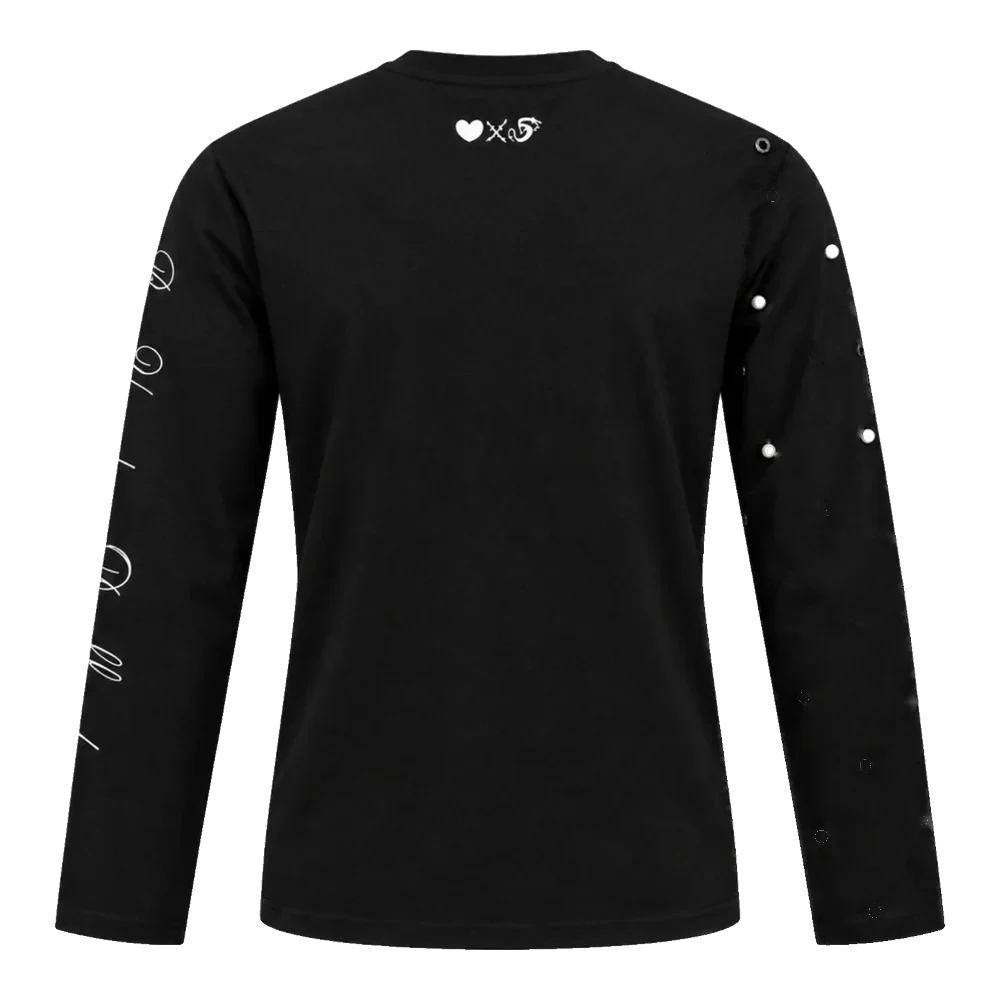
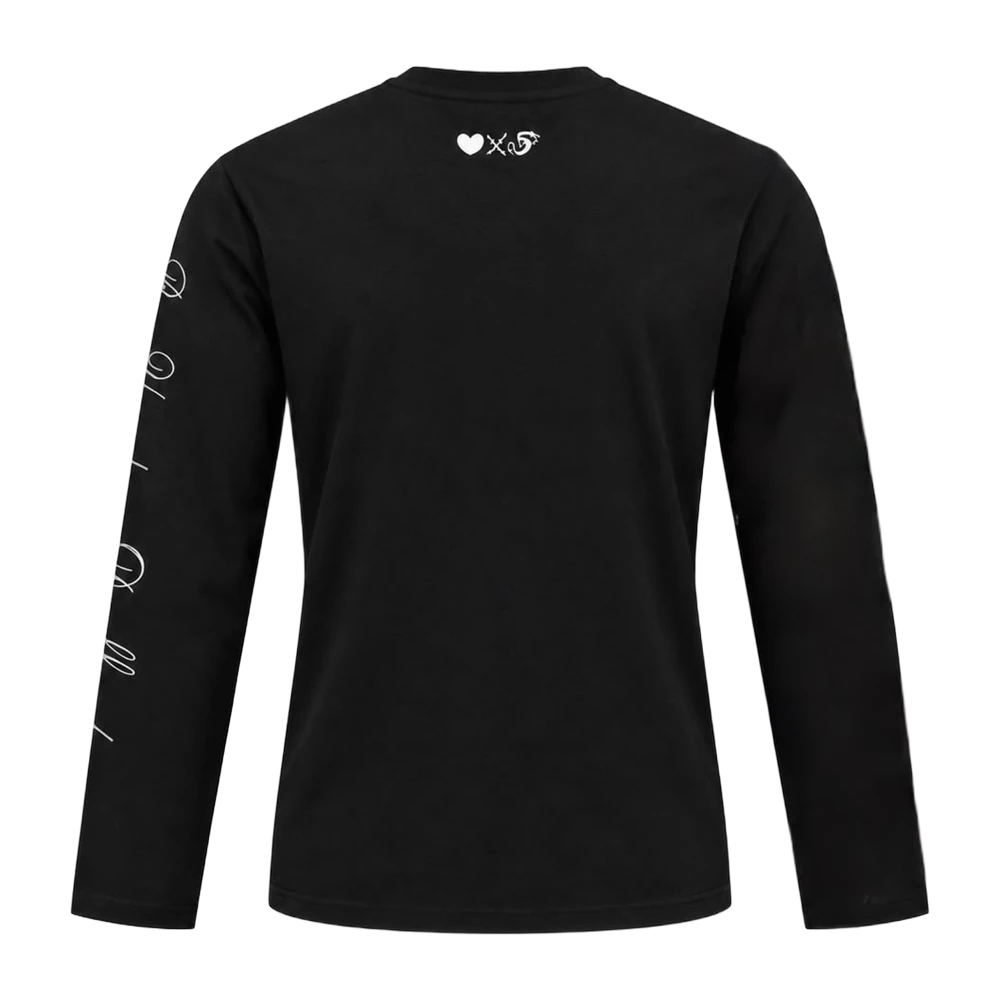
Corrections: clean no-bead raglans, jorts always beaded, camo-only skull cap, Library section removed (#25)
Claude-Session: https://claude.ai/code/session_01EVq2W64n9gGjShBVBAZEmT

diff --git a/yowa/site/index.html b/yowa/site/index.html
@@ -76,7 +76,7 @@
 [data-theme="light"] .pv-media.cut .pv-bars i{background:rgba(20,15,31,.16)}
 [data-theme="light"] .pv-media.cut .pv-bars b{background:var(--ink)}
 [data-theme="light"] .frame.cut img{filter:drop-shadow(0 16px 18px rgba(60,20,130,.22))}
-[data-theme="light"] .lib-tile,[data-theme="light"] .shot{box-shadow:0 10px 26px rgba(74,26,148,.16)}
+[data-theme="light"] .shot{box-shadow:0 10px 26px rgba(74,26,148,.16)}
 [data-theme="light"] .sec-head p,[data-theme="light"] .done p,[data-theme="light"] .join p{color:var(--ink)!important}
 [data-theme="light"] .form{background:rgba(255,255,255,.78)}
 [data-theme="light"] .hero-bybd{color:#1A0F33;text-shadow:0 0 22px rgba(243,238,255,.9),0 2px 10px rgba(243,238,255,.7)}
@@ -416,52 +416,16 @@ section{position:relative}
 .lb-nav{position:absolute;top:50%;transform:translateY(-50%)}
 .lb-prev{left:14px}.lb-next{right:14px}
 
-/* ── Library: every photo on file ── */
-.lib-bar{display:flex;flex-wrap:wrap;gap:12px 18px;align-items:center;justify-content:space-between;border-block:1px solid var(--line);padding:12px 0;margin-bottom:clamp(18px,2.6vw,28px)}
+/* ── In real life filters ── */
 .lib-shelves{display:flex;flex-wrap:wrap;gap:6px;flex:1 1 auto;min-width:0;padding:2px}
-.lib-side{display:flex;align-items:center;gap:14px;margin-left:auto}
 .pill{flex:none;display:inline-flex;align-items:center;gap:8px;font:700 8.5px/1 var(--f-label);letter-spacing:.16em;text-transform:uppercase;padding:11px 13px;border-radius:999px;border:1px solid var(--line);background:rgba(8,6,14,.55);cursor:pointer;white-space:nowrap;transition:background .25s,color .25s,border-color .25s}
 @media (hover:hover){.pill:hover{border-color:var(--purple-l)}}
 .pill i{font-style:normal;color:var(--purple-l)}
 .pill[aria-pressed="true"]{background:#fff;color:var(--void);border-color:#fff}
 .pill[aria-pressed="true"] i{color:var(--purple)}
-.lib-views{display:flex;gap:2px;padding:3px;border:1px solid var(--line);border-radius:999px;background:rgba(8,6,14,.55)}
-.lib-views .pill{border:0;background:none;padding:9px 12px}
-.lib-views .pill[aria-pressed="true"]{background:var(--purple);color:#fff}
-.lib-cols{display:flex;gap:clamp(8px,1.2vw,14px);align-items:flex-start}
-.lib-col{flex:1;min-width:0;display:grid;gap:clamp(8px,1.2vw,14px)}
-.lib-tile{position:relative;display:block;width:100%;aspect-ratio:1;padding:0;border:0;border-radius:8px;overflow:hidden;cursor:zoom-in;color:#fff;text-align:left;background:#140E26 url(img/brand/bg-swirl.jpg) center/cover;isolation:isolate}
-.lib-tile::before{content:"";position:absolute;inset:0;z-index:-1;background:linear-gradient(110deg,rgba(8,6,14,.6) 30%,rgba(122,47,224,.35) 50%,rgba(8,6,14,.6) 70%) 0 0/300% 100%;animation:shimmer 1.6s linear infinite}
-.lib-tile.ok::before{animation:none;background:none}
 @keyframes shimmer{to{background-position:-150% 0}}
-.lib-tile img{display:block;width:100%;height:100%;object-fit:cover;opacity:0;transform:scale(1.06);transition:opacity .7s ease,transform 1.1s var(--e-settle)}
-.lib-tile.ok img{opacity:1;transform:none}
-@media (hover:hover){.lib-tile.ok:hover img{transform:scale(1.05)}.lib-tile:hover .cap{transform:none}.lib-tile:hover{box-shadow:0 0 0 1px var(--purple-l),0 18px 50px rgba(122,47,224,.3)}}
-.lib-tile .no{position:absolute;left:8px;top:8px;font:700 7.5px/1 var(--f-label);letter-spacing:.16em;padding:7px 8px;border-radius:999px;background:rgba(8,6,14,.7);border:1px solid var(--line)}
-.lib-tile .cap{position:absolute;left:0;right:0;bottom:0;padding:34px 12px 12px;background:linear-gradient(180deg,transparent,rgba(8,6,14,.88));font:700 8px/1.5 var(--f-label);letter-spacing:.14em;text-transform:uppercase;transform:translateY(101%);transition:transform .45s var(--e-settle)}
-.lib-tile:focus-visible .cap{transform:none}
-@media (hover:none){.lib-tile .cap{display:none}}
-.js .lib-tile{opacity:0;transform:translateY(28px);transition:opacity .8s var(--e-settle) var(--d,0ms),transform .8s var(--e-settle) var(--d,0ms),box-shadow .3s}
-.js .lib-tile.in{opacity:1;transform:none}
-.lib-index{list-style:none;margin:0;padding:0;border-top:1px solid var(--line)}
-.lib-index li{animation:rowin .6s var(--e-settle) both;animation-delay:var(--d,0ms)}
 @keyframes rowin{from{opacity:0;transform:translateY(12px)}}
-.lib-row{width:100%;display:grid;grid-template-areas:"no nm sh go";grid-template-columns:86px minmax(0,1fr) auto 24px;gap:6px 18px;align-items:center;padding:16px 6px;border:0;border-bottom:1px solid var(--line);background:none;color:inherit;cursor:pointer;text-align:left;transition:background .3s,padding .45s var(--e-settle)}
-.lib-row:focus-visible{background:rgba(122,47,224,.14);padding-left:16px}
-@media (hover:hover){.lib-row:hover{background:rgba(122,47,224,.14);padding-left:16px}.lib-row:hover .go{transform:translateX(4px)}}
-.lib-row .no{grid-area:no;font:700 8.5px/1 var(--f-label);letter-spacing:.16em;color:var(--mut)}
-.lib-row .nm{grid-area:nm;font:400 clamp(20px,2.8vw,36px)/1 var(--f-display);text-transform:uppercase;letter-spacing:.01em}
-.lib-row .sh{grid-area:sh;font:700 8px/1 var(--f-label);letter-spacing:.16em;text-transform:uppercase;color:var(--mut)}
-.lib-row .go{grid-area:go;color:var(--purple-l);transition:transform .45s var(--e-settle)}
-.lib-row .th{grid-area:th;display:none;width:52px;height:66px;border-radius:6px;object-fit:cover;background:#140E26}
-@media (max-width:700px){.lib-row{grid-template-areas:"th no go" "th nm go";grid-template-columns:52px minmax(0,1fr) 18px;padding:12px 2px}.lib-row .th{display:block}.lib-row .sh{display:none}.lib-row .nm{font-size:20px}}
-.lib-peek{position:fixed;left:0;top:0;z-index:45;width:250px;border-radius:10px;overflow:hidden;pointer-events:none;opacity:0;background:#140E26;box-shadow:0 24px 70px rgba(0,0,0,.6),0 0 0 1px var(--line),0 0 40px rgba(122,47,224,.35);transition:opacity .25s ease;will-change:transform}
-.lib-peek.on{opacity:1}
-.lib-peek img{display:block;width:100%;height:auto}
-@media (hover:none),(pointer:coarse){.lib-peek{display:none}}
-.lib-more{display:flex;justify-content:center;margin-top:clamp(24px,3vw,36px)}
-@media (max-width:640px){.lib-shelves{flex-basis:100%}.lib-side{margin-left:0;width:100%;justify-content:space-between}}
-@media (prefers-reduced-motion:reduce){.js .lib-tile{opacity:1;transform:none}.lib-index li{animation:none}.lib-tile::before{animation:none}}
+@media (max-width:640px){.lib-shelves{flex-basis:100%}}
 
 .worn{display:grid;grid-template-columns:repeat(4,minmax(0,1fr));gap:14px}
 @media (max-width:900px){.worn{grid-template-columns:repeat(2,minmax(0,1fr))}}
@@ -642,10 +606,6 @@ section{position:relative}
   .rail-track{grid-template-columns:repeat(3,minmax(0,1fr));gap:6px}
   .shot,.shot:first-child,.shot:last-child:nth-child(even){grid-column:auto;aspect-ratio:1;border-radius:6px}
   .shot:nth-child(n+7),.shot .cap{display:none}
-  .lib-cols,.lib-col{gap:6px}
-  .lib-tile{border-radius:6px}
-  .lib-tile .no{left:5px;top:5px;font-size:6.5px;padding:5px 6px}
-  .lib-bar{padding:8px 0;margin-bottom:12px}
   .celeb{aspect-ratio:1;padding:10px}
   .celeb .eye{width:44px;height:44px;box-shadow:inset 0 0 0 7px rgba(239,234,247,.8)}
   .celeb .eye::after{width:14px;height:14px}
@@ -671,8 +631,6 @@ section{position:relative}
 @media (hover:none){
   .btn:active,.pill:active,.x:active,.bag-btn:active,.menu-btn:active,.size:active,.chips button:active,.chat-fab:active{transform:scale(.95)}
   .card:active .frame,.shot:active{transform:scale(.97)}
-  .lib-tile:active{box-shadow:0 0 0 2px var(--purple-l)}
-  .lib-row:active{background:rgba(122,47,224,.18)}
 }
 
 /* ── Reveal on scroll (content stays visible without JS) ── */
@@ -760,31 +718,10 @@ section{position:relative}
     <div class="rail" id="rail" tabindex="0" aria-label="Gallery. Drag or use the arrow keys; press Enter on a photo to open it.">
       <div class="rail-track" id="rail-track"></div>
     </div>
-    <div class="wrap rail-hint"><span class="label"><span class="drag">Drag · </span>Tap to zoom</span><a class="label" href="#library">All <b id="lib-total">0</b> photos in the Library →</a></div>
+    <div class="wrap rail-hint"><span class="label"><span class="drag">Drag · </span>Tap to zoom</span></div>
   </section>
 
 
-  <section class="sec" id="library" aria-labelledby="lib-t">
-    <div class="wrap">
-      <div class="sec-head rv">
-        <h2 id="lib-t">Library</h2>
-        <p>Every photo on file, numbered. Tap one to see it full size.</p>
-      </div>
-      <div class="lib-bar rv">
-        <div class="lib-side">
-          <span class="label" id="lib-count" role="status"></span>
-          <div class="lib-views" role="group" aria-label="View">
-            <button class="pill" type="button" data-view="grid" aria-pressed="true">Grid</button>
-            <button class="pill" type="button" data-view="index" aria-pressed="false">Index</button>
-          </div>
-        </div>
-      </div>
-      <p class="empty-note" id="lib-empty" hidden>New photos dropping soon.</p>
-      <div id="lib-body"></div>
-      <div class="lib-more"><button class="btn" type="button" id="lib-more" hidden>Show more</button></div>
-    </div>
-    <div class="lib-peek" id="lib-peek" aria-hidden="true"><img alt=""></div>
-  </section>
 
 
   <section class="sec" id="message" aria-labelledby="msg-t">
@@ -915,13 +852,11 @@ const CONFIG = {
 // looks: the photos for each pick; the first look whose `when` matches what's picked is shown (no `when` keys = always).
 const SIZES = ['M', 'L', 'XL', 'XXL'];
 const BEADS = { name: 'Beads', values: [{ v: 'With beads' }, { v: 'Without beads' }] };
-const SKULL_BEADS = { name: 'Beads', values: [{ v: 'No beads' }, { v: 'Black beads', sw: '#121212' }, { v: 'White beads', sw: '#F4F1EA' }] };
 const CAMO = 'conic-gradient(from 40deg,#2a2a2c 0 22%,#8b8b8f 0 41%,#4b4b4f 0 63%,#b3b3b6 0 78%,#2a2a2c 0)';
 const IMG = 'img/products/';
 // a colour with its beaded photos and its plain ones (the beads taken off), front first and back second
 const beadLooks = (C, withBeads, plain) => [{ when: { Colour: C, Beads: 'With beads' }, images: withBeads }, { when: { Colour: C, Beads: 'Without beads' }, images: plain }];
 const ragLooks = C => { const c = C.toLowerCase(); return beadLooks(C, [IMG + 'raglan-' + c + '-front.webp', IMG + 'raglan-' + c + '-back.webp'], [IMG + 'raglan-' + c + '-front-plain.webp', IMG + 'raglan-' + c + '-back-plain.webp']); };
-const jortLooks = C => { const c = C.toLowerCase(); return beadLooks(C, [IMG + 'jorts-' + c + '.webp'], [IMG + 'jorts-' + c + '-plain.webp']); };
 const BEAD_COLOURS = { name: 'Bead colour', show: c => c.Colour === 'Black' && c.Beads === 'With beads', values: [{ v: 'White', sw: '#F4F1EA' }, { v: 'Red', sw: '#D3202B' }, { v: 'Purple', sw: '#8A3FE0' }, { v: 'Black', sw: '#121212' }] };
 const capBlack = col => ({ when: { Colour: 'Black', Beads: 'With beads', 'Bead colour': col }, images: [IMG + 'cap-black-front-' + col.toLowerCase() + '.webp', IMG + 'cap-black-side-' + col.toLowerCase() + '.webp'] });
 const PRODUCTS = [
@@ -947,15 +882,12 @@ const PRODUCTS = [
       { when: { Colour: 'Grey', Beads: 'With beads' }, images: [IMG + 'joggers-grey-beads.webp'] }, { when: { Colour: 'Grey' }, images: [IMG + 'joggers-grey.webp'] }],
     desc: 'Wide-leg joggers with the signature on the hip. Beads down the side or keep them plain. Handmade, limited run.' },
   { id: 'jorts', name: 'Jorts', cat: 'bottoms', isNew: true, cut: true, price: null, art: 'raglan', sizes: SIZES,
-    opts: [{ name: 'Colour', values: [{ v: 'Black', sw: '#121212' }, { v: 'Purple', sw: '#5A3FC6' }, { v: 'Grey', sw: '#A3A3A7' }] }, BEADS],
-    looks: [].concat(jortLooks('Black'), jortLooks('Purple'), jortLooks('Grey')),
-    desc: 'Long jorts with the signature on the front and beads down both sides, or without. Handmade, limited run.' },
+    opts: [{ name: 'Colour', values: [{ v: 'Black', sw: '#121212' }, { v: 'Purple', sw: '#5A3FC6' }, { v: 'Grey', sw: '#A3A3A7' }] }],
+    looks: ['Black', 'Purple', 'Grey'].map(C => ({ when: { Colour: C }, images: [IMG + 'jorts-' + C.toLowerCase() + '.webp'] })),
+    desc: 'Long jorts with the signature on the front and beads down both sides. Handmade, limited run.' },
   { id: 'skull-cap', name: 'Skull Cap', cat: 'caps', cut: true, price: null, art: 'beanie', sizes: ['One size'],
-    opts: [{ name: 'Colour', values: [{ v: 'Camo', sw: CAMO }, { v: 'Black', sw: '#121212' }] }, SKULL_BEADS],
-    looks: [{ when: { Colour: 'Black', Beads: 'No beads' }, images: [IMG + 'skull-black-plain-front.webp', IMG + 'skull-black-plain-back.webp'] },   // front view first, back view second
-      { when: { Colour: 'Black', Beads: 'White beads' }, images: [IMG + 'skull-black-white-beads.webp'] }, { when: { Colour: 'Black', Beads: 'Black beads' }, images: [IMG + 'skull-black-black-beads.webp'] },
-      { when: { Colour: 'Camo' }, images: [IMG + 'skull-camo.webp', IMG + 'skull-camo-sig.webp'] }],
-    desc: 'Skull cap with stitched seams, in camo or black. Add beads in black or white, or keep it clean. One size.' },
+    images: [IMG + 'skull-camo.webp', IMG + 'skull-camo-sig.webp'],
+    desc: 'Camo skull cap with stitched seams. One size.' },
   { id: 'cap-042', name: '042 Cap', cat: 'caps', cut: true, price: null, art: 'cap', sizes: ['One size'],
     opts: [{ name: 'Colour', values: [{ v: 'Black', sw: '#121212' }, { v: 'Green', sw: '#2F5A38' }, { v: 'Navy', sw: '#1B2A5E' }, { v: 'Green & Yellow', sw: 'linear-gradient(135deg,#2F5A38 50%,#F2A60C 50%)' }],
         }, Object.assign({ show: c => c.Colour !== 'Green & Yellow' }, BEADS), BEAD_COLOURS],
@@ -1626,16 +1558,10 @@ const LIBRARY = [
     backstack.open(close); show(i); lb.querySelector('.lb-close').focus({ preventScroll: true });
   }
 
-  /* ── Library: every photo on file, numbered. Masonry grid or an index, filtered by shelf, all opening in the viewer ── */
+  /* ── Photos: the numbered set behind In real life, filtered by shelf, opening in the viewer ── */
   const LIB = LIBRARY.map(p => ({ ...p, thumb: small(p.src) }));
   const SHELF_ORDER = ['Tops', 'Bottoms', 'Caps'];
-  const libBody = $('#lib-body'), libMore = $('#lib-more'), libCount = $('#lib-count'), peek = $('#lib-peek'), peekImg = $('#lib-peek img');
-  let shelf = 'All', libView = store.get('yowa-lib-view', 'grid') === 'index' ? 'index' : 'grid', cols = 0, colH = [], colEls = [], list = [], rowsEl = null;
-  const pk = { x: 0, y: 0, tx: 0, ty: 0, on: false, raf: 0 };
-  const colsFor = () => innerWidth >= 1100 ? 6 : innerWidth >= 700 ? 4 : 3;
-  const pageSize = () => colsFor() * (innerWidth >= 700 ? 2 : 3);   // square tiles: two rows at a time on a computer, three on a phone
-  let shown = pageSize();
-  const libItems = () => LIB.slice();   // the Library is every photo, numbered
+  let shelf = 'All';
   const irlItems = () => shelf === 'All' ? LIB.slice() : LIB.filter(p => (p.shelves || []).indexOf(shelf) >= 0);
   function paintShelves() {
     const n = {}; LIB.forEach(p => (p.shelves || []).forEach(x => { n[x] = (n[x] || 0) + 1; }));
@@ -1647,82 +1573,9 @@ const LIBRARY = [
       b.addEventListener('click', () => { if (shelf === name) return; shelf = name; $$('.pill', box).forEach(x => x.setAttribute('aria-pressed', String(x === b))); paintRail(irlItems()); });
       box.appendChild(b);
     });
-    $('#lib-total').textContent = LIB.length; box.hidden = !LIB.length;
+    box.hidden = !LIB.length;
   }
-  function tile(p, idx, c) {
-    const b = document.createElement('button'); b.type = 'button'; b.className = 'lib-tile'; b.style.setProperty('--d', c * 70 + 'ms');
-    b.setAttribute('aria-label', 'Open ' + p.no + ', ' + p.cap);
-    const im = document.createElement('img'); im.alt = ''; im.loading = 'lazy'; im.decoding = 'async';
-    im.onload = () => { if (p.live && im.naturalWidth) { p.w = im.naturalWidth; p.h = im.naturalHeight; p.live = false; } b.classList.add('ok'); };
-    im.onerror = () => { if (p.thumb !== p.src && im.getAttribute('src') !== p.src) im.src = p.src; else b.classList.add('ok'); };
-    im.src = p.thumb;
-    const no = document.createElement('span'); no.className = 'no'; no.textContent = p.no;
-    const cp = document.createElement('span'); cp.className = 'cap'; cp.textContent = p.cap;
-    b.append(im, no, cp); b.addEventListener('click', () => openLightbox(list, idx, b));
-    return b;
-  }
-  const libIO = new IntersectionObserver(es => es.forEach(e => { if (e.isIntersecting) { e.target.classList.add('in'); libIO.unobserve(e.target); } }), { rootMargin: '0px 0px -6% 0px' });
-  function addTiles(from, to, reveal) {
-    let first = null;
-    for (let i = from; i < to; i++) {
-      const p = list[i]; let c = 0; for (let k = 1; k < cols; k++) if (colH[k] < colH[c] - .01) c = k;   // shortest column, ties go left
-      const t = tile(p, i, c); colEls[c].appendChild(t); colH[c] += 1; first = first || t;
-      if (reveal && !reduced()) libIO.observe(t); else t.classList.add('in');
-    }
-    return first;
-  }
-  function renderLib(reveal) {
-    list = libItems(); hidePeek(); libBody.textContent = '';
-    if (libView === 'grid') {
-      cols = colsFor(); colH = new Array(cols).fill(0);
-      const wrap = document.createElement('div'); wrap.className = 'lib-cols';
-      colEls = Array.from({ length: cols }, () => { const c = document.createElement('div'); c.className = 'lib-col'; return wrap.appendChild(c); });
-      libBody.appendChild(wrap); addTiles(0, Math.min(shown, list.length), reveal);
-    } else {
-      rowsEl = document.createElement('ol'); rowsEl.className = 'lib-index'; libBody.appendChild(rowsEl); addRows(0, Math.min(shown, list.length), reveal);
-    }
-    paintMore();
-  }
-  function addRows(from, to, reveal) {
-    let first = null;
-    for (let i = from; i < to; i++) {
-      const p = list[i], li = document.createElement('li'); if (reveal && !reduced()) li.style.setProperty('--d', Math.min(i - from, 14) * 30 + 'ms'); else li.style.animation = 'none';
-      const b = document.createElement('button'); b.type = 'button'; b.className = 'lib-row'; b.dataset.i = i;
-      b.innerHTML = '<img class="th" alt="" loading="lazy" decoding="async"><span class="no"></span><span class="nm"></span><span class="sh"></span><span class="go" aria-hidden="true">→</span>';
-      b.querySelector('.th').src = p.thumb; b.querySelector('.no').textContent = p.no; b.querySelector('.nm').textContent = p.cap; b.querySelector('.sh').textContent = (p.shelves || []).join(' · ');
-      b.addEventListener('click', () => openLightbox(list, i, b)); li.appendChild(b); rowsEl.appendChild(li); first = first || b;
-    }
-    return first;
-  }
-  function paintMore() {
-    const n = Math.min(shown, list.length), left = list.length - n;
-    libCount.textContent = list.length ? n + ' of ' + list.length + ' photos' : ''; $('#lib-empty').hidden = list.length > 0; $('.lib-bar').hidden = !list.length;
-    libMore.hidden = left <= 0; libMore.textContent = 'Show more · ' + left + ' to go';
-  }
-  libMore.addEventListener('click', () => { const from = Math.min(shown, list.length); shown += pageSize(); const to = Math.min(shown, list.length), first = libView === 'grid' ? addTiles(from, to, true) : addRows(from, to, true); paintMore(); if (libMore.hidden && first) first.focus({ preventScroll: true }); });
-  $$('.lib-views .pill').forEach(b => {
-    b.setAttribute('aria-pressed', String(b.dataset.view === libView));
-    b.addEventListener('click', () => { if (libView === b.dataset.view) return; libView = b.dataset.view; store.set('yowa-lib-view', libView); $$('.lib-views .pill').forEach(x => x.setAttribute('aria-pressed', String(x === b))); renderLib(true); });
-  });
-  let libRs = 0; addEventListener('resize', () => { clearTimeout(libRs); libRs = setTimeout(() => { if (libView === 'grid' && colsFor() !== cols) renderLib(false); }, 160); });
-  // Index view on a desktop: the photo follows the cursor down the list.
-  function peekLoop() {
-    const k = reduced() ? 1 : .2; pk.x += (pk.tx - pk.x) * k; pk.y += (pk.ty - pk.y) * k;
-    const tilt = Math.max(-6, Math.min(6, (pk.tx - pk.x) * .06));
-    peek.style.transform = 'translate3d(' + pk.x.toFixed(1) + 'px,' + pk.y.toFixed(1) + 'px,0) rotate(' + tilt.toFixed(2) + 'deg)';
-    pk.raf = pk.on && (Math.abs(pk.tx - pk.x) > .3 || Math.abs(pk.ty - pk.y) > .3) ? requestAnimationFrame(peekLoop) : 0;
-  }
-  function hidePeek() { pk.on = false; peek.classList.remove('on'); }
-  libBody.addEventListener('pointermove', e => {
-    if (e.pointerType !== 'mouse' || libView !== 'index') return;
-    const row = e.target.closest && e.target.closest('.lib-row'), p = row && list[+row.dataset.i]; if (!p) { hidePeek(); return; }
-    if (peekImg.getAttribute('src') !== p.thumb) peekImg.src = p.thumb;
-    const w = peek.offsetWidth || 250, h = w * p.h / p.w; let x = e.clientX + 32; if (x + w > innerWidth - 16) x = e.clientX - w - 32;
-    const y = Math.max(16, Math.min(innerHeight - h - 16, e.clientY - h / 2));
-    if (!pk.on) { pk.x = x; pk.y = y; } pk.tx = x; pk.ty = y; pk.on = true; peek.classList.add('on'); if (!pk.raf) pk.raf = requestAnimationFrame(peekLoop);
-  });
-  libBody.addEventListener('pointerleave', hidePeek); addEventListener('scroll', hidePeek, { passive: true });
-  paintShelves(); renderLib(true); paintRail(irlItems());
+  paintShelves(); paintRail(irlItems());
   // Codes open straight in the viewer: from the hero caption, and from links like yowabybd.com/#yw-010.
   function openCode(no, from) { const k = LIB.findIndex(p => p.no === no); if (k < 0) return false; openLightbox(LIB, k, from || null); return true; }
   let pendingCode = '';
@@ -1737,15 +1590,15 @@ const LIBRARY = [
   if (CONFIG.LIBRARY_FEED && !CONFIG.PREVIEW) fetch(CONFIG.LIBRARY_FEED).then(r => r.ok ? r.json() : null).then(d => {
     const https = u => typeof u === 'string' && u.indexOf('https://') === 0, key = u => String(u).split('/').pop().replace(/^[a-z0-9]{6,9}-/i, '').replace(/\.[a-z0-9]+$/, '').toLowerCase(), have = new Set(LIB.map(p => String(p.file || key(p.src)).toLowerCase()));
     const fresh = (d && Array.isArray(d.photos) ? d.photos : []).filter(p => p && https(p.url) && !/^(brand|inbox|real-?life)$/i.test(p.folder) && /\.(jpe?g|png|webp|avif)$/i.test(p.path || '') && !have.has(key(p.path)));
-    if (!fresh.length) return;   // nothing on the Library site yet: both sections show 'New photos dropping soon'
+    if (!fresh.length) return;   // nothing on the Library site yet: In real life shows what is bundled
     fresh.sort((a, b) => String(a.created_at).localeCompare(String(b.created_at))).forEach(p => {
       const t = ((Array.isArray(p.tags) ? p.tags : []).join(' ') + ' ' + (p.folder || '')).toLowerCase();
       LIB.push({ src: p.url, thumb: https(p.thumb) ? p.thumb : p.url, w: 2, h: 3, live: true, no: 'YW·' + String(++lastNo).padStart(3, '0'),
         cap: typeof p.caption === 'string' && p.caption.trim() ? p.caption.trim().slice(0, 80) : 'Shoot · ' + String(p.folder || 'new'),
         shelves: [{ raw: 'Tops', 'behind-the-scenes': 'Bottoms', products: 'Caps', campaign: 'Caps' }[String(p.folder).toLowerCase()] || (/\b(tees?|t-?shirt|raglan|long[\s-]*sleeve|top)s?\b/.test(t) ? 'Tops' : /jogger|jort|short|pant/.test(t) ? 'Bottoms' : /\bcaps?\b/.test(t) ? 'Caps' : '')].filter(Boolean) });
     });
-    paintShelves(); renderLib(true); paintRail(irlItems());
-    paintMore(); if (pendingCode && openCode(pendingCode)) pendingCode = '';
+    paintShelves(); paintRail(irlItems());
+    if (pendingCode && openCode(pendingCode)) pendingCode = '';
   }).catch(() => { });
 
   /* ── The list: same Supabase waitlist table (via /api/join) + Formspree backup ── */

diff --git a/yowa/site/api/chat.js b/yowa/site/api/chat.js
@@ -22,7 +22,7 @@ ABOUT YOWA
 - Instagram: @yowa_bybd. Everything is handmade in small limited runs. When a run is gone, it is gone.
 
 THE SITE AND THE SHOP
-- Pieces: Liberty Raglan (black body; sleeves in black, red, blue or grey; with beads or without); Ringer Tee and YOWA Long Sleeve (white); Be Different Tee (black, YOWA on the chest, Be You Be Different on the back); YOWA Logo Tee (black, big YOWA wordmark); Joggers (black or grey, with or without beads); Jorts (black, purple or grey, with or without beads); Skull Cap (camo or black; no beads, black beads or white beads; one size); 042 Cap, the patch cap (black, green, navy, or green with a yellow peak; with or without beads; the black one can have black, red, white or purple beads; one size).
+- Pieces: Liberty Raglan (black body; sleeves in black, red, blue or grey; with beads or without); Ringer Tee and YOWA Long Sleeve (white); Be Different Tee (black, YOWA on the chest, Be You Be Different on the back); YOWA Logo Tee (black, big YOWA wordmark); Joggers (black or grey, with or without beads); Jorts (black, purple or grey, always with beads); Skull Cap (camo; one size); 042 Cap, the patch cap (black, green, navy, or green with a yellow peak; with or without beads; the black one can have black, red, white or purple beads; one size).
 - Clothes come in M, L, XL and XXL with a relaxed fit.
 - Shop sections: New, All, Tops, Caps, Bottoms. Tap the eye on a piece to see it, the bag to add it. Pick colour, beads, size and quantity, then add to cart.
 - Anyone can fill a cart. Checking out takes the drop code, typed in at checkout. People on the list ("Get the code" on the site, just an email) get the code first, plus an early-bird discount and a first look at styling.

diff --git a/yowa/site/README.md b/yowa/site/README.md
@@ -65,6 +65,6 @@ The domain uses Vercel's nameservers (`ns1.vercel-dns.com`, `ns2.vercel-dns.com`
 
 ## Partner round notes
 
-- **Shop:** nine pieces, no "Drop 01" labels. Raglans, jorts and the 042 cap have With / Without beads and the photos really show no beads. The black 042 cap adds Bead colour (White, Red, Purple, Black). The 042 cap also comes in Green, Navy and Green & Yellow. The skull cap opens on the front view, then the back.
-- **In real life / Library:** the 21 photos in `img/library/` are bundled with codes and captions, then anything new on the Library site joins after them. Folders map to shelves: raw = Tops, behind-the-scenes = Bottoms, products + campaign = Caps. The real-life, brand and inbox folders are ignored. Filters are All, Tops, Bottoms and Caps in In real life; the Library has Grid and Index.
+- **Shop:** nine pieces, no "Drop 01" labels. Raglans and the 042 cap have With / Without beads, and the "without" raglan photos are the clean renders. Jorts are always beaded (no option). The black 042 cap adds Bead colour. The Skull Cap is camo only for now.
+- **In real life:** the 21 photos in `img/library/` are bundled with codes and captions, and anything new on the Library site joins after them. Folders map to filters: raw = Tops, behind-the-scenes = Bottoms, products + campaign = Caps (real-life, brand and inbox are ignored). There is no separate Library section any more.
 - **Ask YOWA:** `api/chat.js` answers from the catalogue and the FAQ. It needs `OPENROUTER_API_KEY` set in Vercel (yowa project, Production) and a redeploy. The key is never kept in the code.
